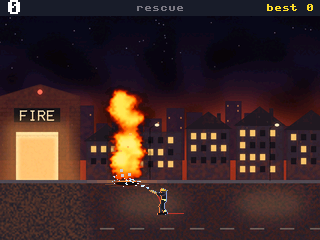
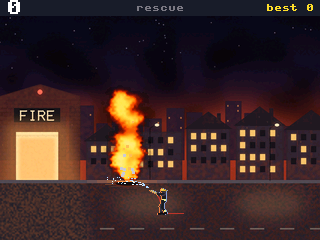
P800: the fire touches its crater in every frame: the flame's foot stays hot as it dies down (fewer, narrower spots, never see-through), its decay falls from 34 to 31 so it shrinks, and the field is cleared when the fire ends, so no flame floats on without a crater; tests/test_rescue_frames.py check

Changed region(s): [[0.3125, 0.3792, 0.4688, 0.7875]]

diff --git a/games/rescue.py b/games/rescue.py
@@ -159,8 +159,10 @@ FIRE_STEP_MS = 80  # ms a heat step, as the Runner's: 40 sank the Runner to 16 f
 # it into blobs with a gap, less fade makes a white column)
 FIRE_LOOK = (34, 30, 1, 0, 1, 0, 0, 16)  # no fast patches (they split the flame), no field embers (they rose low)
 FIRE_SEED = 800
+DECAY_DROP = 3  # the decay falls this much as a fire goes out: from 34, which keeps the flame climbing, to 31
 BURN_HALF_PX = 12  # px each side of the crater's middle that burn
-BURNS = 8  # hot spots burned a frame
+BURNS = 8  # hot spots burned a frame by a full fire
+BURN_HEAT, FOOT_HEAT = 223, 160  # a spot's heat in a full fire, and in a fire nearly out: still bright, never see-through
 WATER = (c565(170, 214, 255), c565(230, 244, 255))
 STEAM = c565(200, 200, 210)
 GLOW_LEVELS = 8  # the fire's light on the kerb and the street, from none to the full fire
@@ -203,6 +205,7 @@ class Rescue(Game):
 
     def setup(self):
         self.layer.clear()
+        self.decay = FIRE_LOOK[0]  # the look's decay now, set again only when it steps (DECAY_DROP times a fire)
         self.rules = Rules(self.place)
         self.water = Spray()
         self.covers = pictures.load()  # the painted street covers the screen, so no fill goes under it
@@ -220,11 +223,19 @@ class Rescue(Game):
         self.layer.update(self.ms, 0)
         field = self.layer.field
         heat = crater.heat()
+        if field is not None:  # the flame climbs less high as the fire dies down: its decay falls toward 31
+            decay = FIRE_LOOK[0] - DECAY_DROP + DECAY_DROP * heat // HEAT_MAX
+            if decay != self.decay:
+                self.decay = decay
+                field.set_look(decay, *FIRE_LOOK[1:])
         if field is not None and heat:
-            for _ in range(BURNS):  # hot spots at random along the crater, on its two rows: a wide, ragged base
-                x = (crater.x + random.randrange(-BURN_HALF_PX, BURN_HALF_PX + 1)) // 2
+            # hot spots at random along the crater, on its two rows: a wide, ragged base. As the fire dies down it
+            # narrows and has fewer spots, but its foot stays hot, so the flame never lifts off the crater
+            half = 3 + (BURN_HALF_PX - 3) * heat // HEAT_MAX
+            for _ in range(1 + (BURNS - 1) * heat // HEAT_MAX):
+                x = (crater.x + random.randrange(-half, half + 1)) // 2
                 y = LANE // 2 - 2 - random.randrange(2)
-                field.burn(x, y, x, y, 1, (heat - random.randrange(heat // 3 + 1)) * 7 // 8)
+                field.burn(x, y, x, y, 1, FOOT_HEAT + (BURN_HEAT - FOOT_HEAT) * heat // HEAT_MAX - random.randrange(30))
         if heat and random.randrange(HEAT_MAX) < heat // 4:  # sparks fly up from the fire, fewer as it dies down
             self.fx.add(crater.x + random.randrange(-8, 9), LANE - 6, random.randrange(-20, 21),
                         -random.randrange(40, 90), SPARK, 0.8, 20.0)
@@ -238,6 +249,8 @@ class Rescue(Game):
                             -random.randrange(20, 50), STEAM, 0.7, -30.0)
         if events & OUT:
             self.fx.burst(crater.x, LANE - 6, STEAM, 14, 50.0, 0.9, -60.0)
+        if events & (OUT | BURNT):  # the field's heat would rise on alone as a flame with no crater under it
+            self.layer.clear()
         self.water.update(self.dt)
 
     def man_picture(self):

diff --git a/tests/test_rescue_frames.py b/tests/test_rescue_frames.py
@@ -1,0 +1,70 @@
+"""Rescue's fire in the frames the README's GIF is made from (P800): in every frame of render_scene's rescue row where
+the crater burns, the flame comes out of the crater, and once the fire is out no flame floats on. The row runs in its
+own process, as tools/render_scene.py sets module state (the clock, the engines). Needs clang. Run from the
+repository root: python3 -m unittest discover tests. --- MVP (P800) ---"""
+
+import os
+import shutil
+import subprocess
+import sys
+import unittest
+
+ROOT = os.path.dirname(os.path.dirname(os.path.abspath(__file__)))
+TOUCH_PX = 4  # the flame's lowest bright pixel lies this close to the crater's top, at most
+SPARKS_PX = 12  # bright pixels a frame after the fire is out may hold: sparks still in the air, not a flame
+
+# One line per frame: whether the fire burns, the lowest flame row in the crater's columns (-1: none), how many flame
+# pixels there, and the crater's top row. A flame pixel is bright orange to yellow and differs from the still street.
+SCRIPT = r"""
+import itertools, sys
+sys.path.insert(0, "tools")
+sys.path.insert(0, "art")
+import render_scene as rs
+from export import from_bin
+import rescue
+with open("games/art/rescue_night.bin", "rb") as f:
+    street = from_bin(f.read(), 320, 240).convert("RGB")
+row = rs.SUBJECTS["rescue"]
+made, make = [], row.game
+row.game = lambda: made.append(make()) or made[-1]
+for img in itertools.islice(rs.frames(row), row.last):
+    crater = made[0].rules.crater
+    low, n = -1, 0
+    for y in range(20, rescue.LANE):
+        for x in range(crater.x - 10, crater.x + 11):
+            p, q = img.getpixel((x, y)), street.getpixel((x, y))
+            if p[0] > 180 and p[0] - p[2] > 60 and sum(abs(a - b) for a, b in zip(p, q)) > 120:
+                low, n = y, n + 1
+    print(int(crater.burning()), low, n, rescue.LANE - 1)
+"""
+
+
+@unittest.skipUnless(shutil.which("clang"), "clang is missing: the C heat field is not built")
+class FireTouchesItsCraterTest(unittest.TestCase):
+    @classmethod
+    def setUpClass(cls):
+        run = subprocess.run([sys.executable, "-B", "-c", SCRIPT], cwd=ROOT, capture_output=True, text=True)
+        assert run.returncode == 0, run.stderr[-800:]
+        cls.frames = [tuple(int(v) for v in line.split()) for line in run.stdout.split("\n")
+                      if line[:2] in ("0 ", "1 ")]
+
+    def test_the_row_burns_and_puts_the_fire_out(self):
+        burning = [b for b, *_ in self.frames]
+        self.assertIn(1, burning)
+        self.assertIn(0, burning[burning.index(1):])
+
+    def test_in_every_burning_frame_the_flame_comes_out_of_the_crater(self):
+        for k, (burning, low, _, top) in enumerate(self.frames[1:], 1):  # frame 0 is the title's press: no step yet
+            if burning:
+                with self.subTest(frame=k):
+                    self.assertGreaterEqual(low, top - TOUCH_PX)
+
+    def test_once_the_fire_is_out_no_flame_floats_on(self):
+        out = [k for k, (burning, *_) in enumerate(self.frames) if not burning]
+        for k in out:
+            with self.subTest(frame=k):
+                self.assertLessEqual(self.frames[k][2], SPARKS_PX)
+
+
+if __name__ == "__main__":
+    unittest.main()
